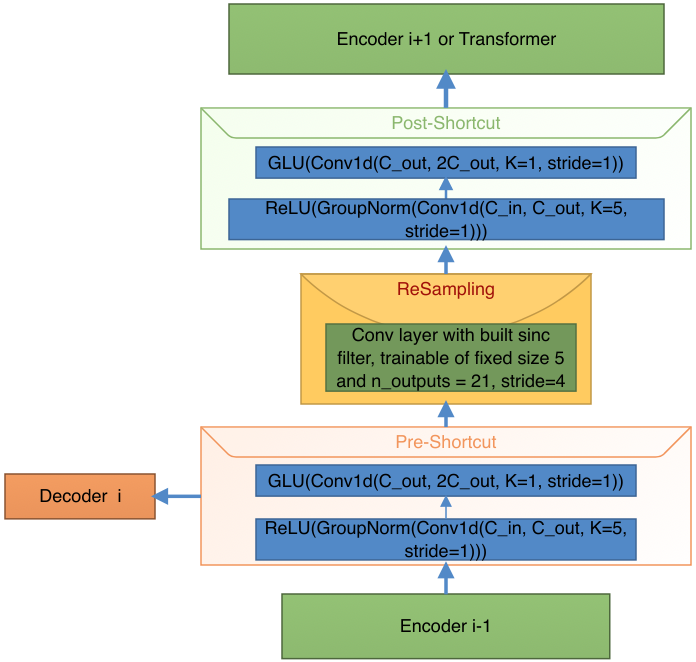
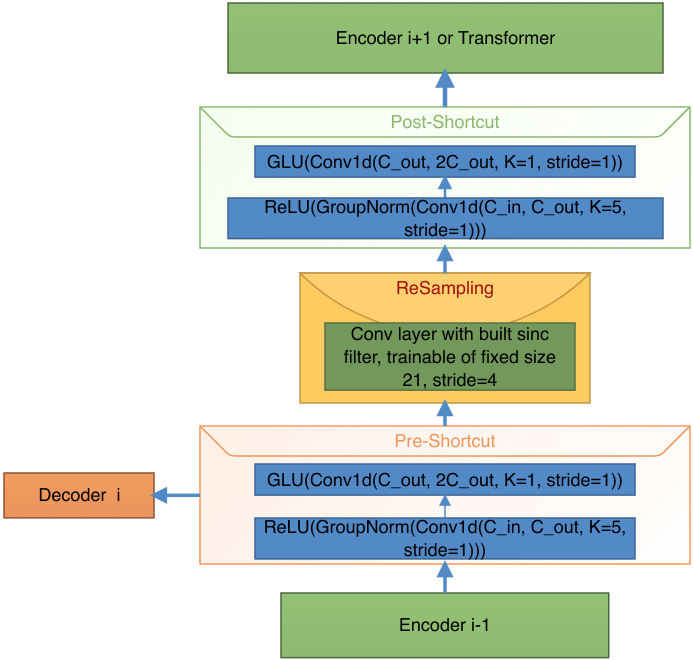
intro, results, discussion and conclusion added
I also modified some of the content in "Related Work". Only the abstract remains and we can read it and correct the remaining mistakes...

diff --git a/report/cvpr.tex b/report/cvpr.tex
@@ -10,9 +10,13 @@
 \usepackage{graphicx}
 \usepackage{amsmath}
 \usepackage{amssymb}
+\usepackage{multirow}
 
 % Include other packages here, before hyperref.
-
+\usepackage{caption}
+\usepackage[tablename=Table]{caption} 
+\captionsetup[table]{skip=5pt}
+\captionsetup{labelfont=bf}
 % If you comment hyperref and then uncomment it, you should delete
 % egpaper.aux before re-running latex.  (Or just hit 'q' on the first latex
 % run, let it finish, and you should be clear).
@@ -38,9 +42,9 @@
 % just like the second author.
 % To save space, use either the email address or home page, not both
 \and
-Teiichi\\
+Teiichi Atsuya\\
 student id\\
-{\tt\small email}
+{\tt\small teiichi.atsuya@outlook.com}
 \and
 Picard Armand\\
 2021400607\\
@@ -58,20 +62,28 @@ Here is our abstract
 %%%%%%%%% BODY TEXT
 \section{Introduction}
 
-Put introduction here
+Music we listen to everyday are usually the product of sophisticated work of multi-track editing, the combination of multiple instruments and vocals. 
+
+The question of wether we can reverse-engineer this process by extracting the individual or particular instrument(s) or vocals, out of the entire music has been studied for a while now. Until recently sound source separation was very difficult for many experts who tried to apply their domain knowledge, such as knowledge of the mixing process, with limited applications and sub-optimal sound quality. 
+
+However, with the recent development of deep neural network technology, the AI system is capable of distinguishing the specific frequency and sound of particular instrument(s), such as Drums and Vocals. 
+
+Encouraged by the results of recent studies in this field, we decided to study the different approaches for such task, then pick a model or architecture and try to improve it and finally annotate the results and compare them with existing models under similar experiment settings.
+
 
 \section{Related work}
 
-In this section we will describe different approche and model architecture to implements instrument sound extraction with DeepLearning.
+In this section we will describe different approaches and model architecture to implement instrument sound extraction using Deep Learning.
 
-\subsection{Different approches}
+\subsection{Different Approaches}
 \subsubsection{Waveform}
 
-Waveform models take the raw wave as input, this give the models all the information available to build it's own representation of the data.
-Since audio have a hight frenquency if we wan't our model to make prediction on a fairly large time period the models will have a huge number of inputs.
-This could lead to a lot of operation for an single pass.
-And also could lead to a huge memory usage to record the gradients that could exceed the memory of our GPU.
-This concideration will influence our research.
+This type of model takes the raw wave as input. This gives the model all the information available to build it's own representation of the data.
+ 
+Indeed, without any preprocessing, such network intends to capture the frequencies and phase of the wave input and model the sources. A pioneer is Wave-U-Net \cite{waveunet} which inspired new state of art model such Demucs \cite{defossez2019music}, DPTNet \cite{dptnet}, MMDenseLSTM \cite{mm_dense_lstm} and many more.
+
+Since a musical sound usually has a high frequency. Hence, for predictions on a fairly long time period, the model will have a huge number of inputs leading to several operations in a single pass and also expensive in terms of memory consumption, for instance to record the gradients which could exceed the memory of the available resources.
+These considerations conditioned our research. 
 
 \subsubsection{Spectrogram}
 
@@ -80,17 +92,18 @@ To get the spectrogram, Short Time Fourier Transform(STFT) is use.
 Then the DeepLearning model is given as input only the magnitude of the spectrogram and it train to produce the magnitude of the different source.
 Then to get the final output we reintegrate the phase of the input signal and apply Inverse Short Time Fourier Transform(ISTFT) to get the output audio.
 
-This approche allow the model to have higher level features as input and reduced lenght depending on the window size and the hop lenght while doing the STFT.
-This higher level features can allow the model to learn faster and being smaller but it also don't give all the information on small local pertubation that can be usefull to produce the best final output.
+This approach allows the model to have higher level features as input and reduced length depending on the window size and the hop length while doing the STFT.
+This higher level features can allow the model to learn faster and being smaller but it also don't give all the information on small local perturbation that can be useful to produce the best final output.
+
 
 
 \subsubsection{Hybrid}
-The Hybrid approche use a network that have 2 input, one for the waveform and one for the spectrogram.
-This allow to have the best of both world but require a lot of computing power. Example of this kind of model include HybridDemucs \cite{hybrid-demucs}
+The Hybrid approach is mostly used nowadays. Such network has 2 types of input, one for the waveform and one for the spectrogram.  
+This allows to have the best of both world by complementing the information extracted from both representations. However it requires a lot of computing power. Example of this kind of model include HybridDemucs \cite{hybrid-demucs} and CatNet \cite{catnet}.
 
-\subsection{Model architecture}
+\subsection{Baseline Architecture}
 
-Most of the models are bases on the UNet architecture that use an encoder that downsample at each step and then a decoder that upsample the bottleneck using the result of each previous encoder as second input.
+Our baseline model architecture is based on Wave-U-Net. This model use an encoder that down-samples at each step and then a decoder that up-samples the bottleneck using the result of each previous encoder as a second input.
 The global architecture of Wave-U-Net\cite{waveunet} is show in Figure~\ref{waveunet-architecture}
 
 \begin{figure}
@@ -118,9 +131,9 @@ for some dataset $D$, the reconstruction error $l$ (here Mean square error), the
 
 The architecture used for the task was developed from a blend ideas between the Wave-U-Net \cite{waveunet} and Demucs \cite{defossez2019music} architectures and the Transformer Encoder from DPTNet\cite{dptnet}.
 Basically we used the Wave-U-Net \cite{waveunet} architecture with some modifications in the downsampling layers (encoders), bottlenecks and upsampling layers (decoders).
-The network has 6 levels. The encoder and decoder are linked with skipped U-net connections as shown in figure \ref{our-architecture}. Both encoder and decoder include a resampling layer as in \cite{waveunet} for a trainable low-pass filter and fix output size (21). 
+The network has 6 levels. The encoder and decoder are linked with skipped U-net connections as shown in figure \ref{our-architecture}. Both encoder and decoder include a resampling layer as in \cite{waveunet} for a trainable low-pass filter of fixed size (21). 
 
-The encoder in fig. \ref{encoder} is composed of 6 stacked layers numbered from 1 to 6. $Layer_i$ consists of a pre-shortcut sublayer and a post-shortcut sublayer. The Pre-shortcut sublayer is composed of a convolution with kernel size 5 and stride 1, followed by a group norm with fixed group size of 8, a ReLU activation function, another convolution with kernel size 1 and stride 1 followed by a GLU layer. The post-shortcut sublayer has exactly the same structure as the pre-shortcut sublayer. Both sublayers are separated by the resampling layer \cite{waveunet} with trainable sinc filter of size 5 and with stride 4 and fixed output channel size 21.
+The encoder in fig. \ref{encoder} is composed of 6 stacked layers numbered from 1 to 6. $Layer_i$ consists of a pre-shortcut sublayer and a post-shortcut sublayer. The Pre-shortcut sublayer is composed of a convolution with kernel size 5 and stride 1, followed by a group norm with fixed group size of 8, a ReLU activation function, another convolution with kernel size 1 and stride 1 followed by a GLU layer. The post-shortcut sublayer has exactly the same structure as the pre-shortcut sublayer. Both sublayers are separated by the resampling layer \cite{waveunet} with trainable sinc filter of size 21 and with stride 4.
 
 \begin{figure}
    \includegraphics[scale=0.3]{encoder.png}
@@ -149,20 +162,91 @@ The last decoder or final layer is a convolution of kernel size 5 and stride 1, 
 \section{Experiments and Results}
  The implemented model was evaluated on music separation with bass, drums, vocals and "other" instruments as categories defined by the SiSec Separation campaign \cite{SiSec}.
 \subsection{Datasets}
-The dataset used was MusDB18-HQ \cite{MUSDB18HQ} as well as MusDB18 7s \cite{musdb18}. Both dataset contain 150 tracks split into 2 subsets. From the 100 songs reserved for training, 25 were dedicated for validation, also used for early stop in training. The remaining 50 were used as test data. The model is fully trained on MusDB18-hq which is stereophonic and encoded at 44.1kHz. The model is then evaluated on both datasets.
+The datasets used was MusDB18-HQ \cite{MUSDB18HQ} as well as MusDB18 7s \cite{musdb18}. Both datasets contain 150 tracks split into 2 subsets. From the 100 songs reserved for training, 25 were dedicated for validation, also used for early stop in training. The remaining 50 were used as test data. The model is fully trained on MusDB18-hq which is stereophonic and encoded at 44.1kHz. The model is then evaluated on both datasets.
 Data augmentation is also performed on the training data by multiplying the sources of the mixture with a uniformly chosen factor between 0.7 and 1.0 and then summing the resulting sources back to obtain a new mixture.\cite{waveunet}  
 \subsection{Training Procedure}
 During training, one epoch was defined as a pass over 3 seconds extracts on the data with a batch size of 8. The inputs were padded accordingly to ensure input context and alleviate bottlenecks. Furthermore, we use the mean square loss (MSE) over all source output samples in a batch. The optimizer was ADAM with a cyclic learning [$1*10^{-3}$, $5*10^{-5}$]. 
 
 The model was trained with early stopping after 20 epochs with no improvement on the validation dataset by the MSE loss. Afterwards, the model is fined with a cyclic learning [$5*10^{-4}$, $5*10^{-6}$], until 50~100 epochs with no improvements validation loss. The best model on validation loss was then selected and used on the test set. 
 
-Experiments were also performed on the number of levels (depth) of the network, the output size, the kernel sizes as well as structures such as LSTMs and fully connected layers to arrive at a better model.   
-\subsection{Model settings}
-
+Experiments were also performed on the number of levels (depth) of the network, the output size, the kernel or filter sizes as well as structures such as LSTMs and fully connected layers as bottleneck layers to arrive at a better model with transformers.   
+\subsection{Model Settings}
+The model uses at least 137897 inputs and 132441 outputs based on the valid convolutions. Besides all the tracks are sampled at 44.1kHz. The model has 12 layers and the transformer encoder as bottleneck. The number of filter for the resampling both in encoder and decoder were fixed to 21.
 \subsection{Evaluation Metrics}
+The metric commonly used to evaluate sound source separation performance is the Signal-to-Distortion Ratio (SDR) \cite{sdr}. Indeed, a track is partitioned into non-overlapping audio segments multiple seconds in length, and segment-wise metrics are then averaged over each audio track or the whole dataset to evaluate the model. We use the python package \emph{museval}\footnote{\url{https://github.com/sigsep/sigsep-mus-eval}} which provides a reference implementation for the SiSec Mus 2018 campaign \cite{SiSec}.
 
+If we reuse the notations from \cite{sdr}, let's take a source $j$ $\epsilon$ $1, 2, 3, 4$ and we introduce $P_{s_{j}}$ the orthogonal projection on $s_{j}$ and $P_{s}$ the projection on the Span($s_{1}$, \dots, $s_{4}$). By taking the estimate of source $s_{j}$, $s_{target}:=P_{s_j}(s_j)$, $e_{interference}:=P_s(s_j)-P_{s_j}(s_j)$ and $e_{artifact}:=s_j-P_s(s_j)$,
+the SDR is defined as
+\begin{equation}
+   SDR = 10\log_{10} \frac{||s_{target}||^2}{||e_{interference}+e_{artifact}||^2}
+\end{equation}
+One the drawbacks of such formula is the undefined results ($\log(0)$) when the source is silent or nearly silent as pointed out in \cite{waveunet}. Indeed the SDR is very low when the output is quiet. Such outliers encountered affect the overall evaluation because of the average over all segments. Hence as done in \cite{SiSec}, we report the median over all tracks of the median of the metric over each track. This ensure robustness and describes the minimum performance achieved $50\%$ of the time.  
 \subsection{Results}
+The results shown here (see table \ref{dataset-sdr}) are of the best model obtained so far at the end of the experiments. Moreover, we compare our results to state of art performances on the same task under the same datasets.
+Table \ref{wave-unet-vs-our-model} indicates an overall improvement of our model which exceeds the performance of Wave-U-Net on the MusDB18-HQ. The main difference between the two models is the transformer encoder that replaced the convolutional bottleneck in Wave-U-Net. Such implementation added some kind of memory to the network, which proves the importance of relation of subsequent frequencies or musical notes in a melody in the separation.
+
+Table \ref{demucs-vs-our-model} on the other shows that our model still has a long way to go. In fact Demucs\cite{defossez2019music} consists in a direct synthesis. The main benefit of synthesis is that we can use a relatively large stride in the decoder, thus speeding up the computations and allowing for a larger number of channels.This explains the effectiveness of the Demucs network, while our model as well as Wave-U-Net \cite{waveunet}, generates its output by iteratively upsampling, adding back the high frequency part of the signal from the matching encoder output (or from the input for the last decoder layer) and filtering.
+
+Table \ref{efficiency-parameters} compares our model to Wave-U-Net and Demucs in terms of parameters and computations. In fact, the developed model has additional parameters because of the transformer encoder which is not detrimental to the performance. Compared to Demucs \cite{defossez2019music} which has 5 times more parameters, we believe that with more experiments on the use of transformer in the model architecture, meaning adding memory in U-Net based models, as well as extra-data as in \cite{hybrid-demucs}  interesting outcomes are expected. 
+
+
+
+\begin{table}[]
+   \begin{tabular}{|l|ll|ll|}
+   \hline
+                                                                 & \multicolumn{2}{c|}{Training Set}                    & \multicolumn{2}{c|}{Test Set}                        \\ \hline
+                                                                 & \multicolumn{1}{l|}{\begin{tabular}[c]{@{}l@{}}MSE \\ loss\end{tabular}}        & \begin{tabular}[c]{@{}l@{}}Overall\\ SDR \end{tabular}  & \multicolumn{1}{l|}{\begin{tabular}[c]{@{}l@{}}MSE \\ loss\end{tabular}}        & \begin{tabular}[c]{@{}l@{}}Overall\\ SDR \end{tabular}   \\ \hline
+   \begin{tabular}[c]{@{}l@{}}MusDB18 \\ 7s dataset\end{tabular} & \multicolumn{1}{l|}{0.0009}          & 6.31          & \multicolumn{1}{l|}{0.0019}          & \textbf{3.41} \\ \hline
+   MusDB18-hq                                                    & \multicolumn{1}{l|}{\textbf{0.0005}} & \textbf{6.48} & \multicolumn{1}{l|}{\textbf{0.0016}} & 3.30          \\ \hline
+   \end{tabular}
+
+   \caption{Performance of our model on training set and test set in terms of Signal-to-distortion ratio. The higher SDR for MusDB18-hq is explained by the huge number of 
+   samples compared to MusDB18 7s which has only 7s extracts from the original songs.}
+   \label{dataset-sdr}
+\end{table}
+
+
+\begin{table}[]
+   \begin{tabular}{|l|lllll|}
+   \hline
+   Architectures & \multicolumn{5}{c|}{SDR in dB on Test Set}                                                                                                                        \\ \hline
+                 & \multicolumn{1}{l|}{All}           & \multicolumn{1}{l|}{bass}          & \multicolumn{1}{l|}{drums}         & \multicolumn{1}{l|}{other}         & vocals        \\ \hline
+   Wave-U-Net    & \multicolumn{1}{l|}{3.17}          & \multicolumn{1}{l|}{\textbf{3.17}} & \multicolumn{1}{l|}{4.16}          & \multicolumn{1}{l|}{2.24}          & 3.05          \\ \hline
+   Our Model     & \multicolumn{1}{l|}{\textbf{3.30}} & \multicolumn{1}{l|}{2.91}          & \multicolumn{1}{l|}{\textbf{4.26}} & \multicolumn{1}{l|}{\textbf{2.43}} & \textbf{3.70} \\ \hline
+   \end{tabular}
+   
+   \caption{Comparison of Wave-U-Net and Our model on waveform data (MusDB18)}
+   \label{wave-unet-vs-our-model}
+\end{table}
+
+\begin{table}[]
+   \begin{tabular}{|l|lllll|}
+   \hline
+   Architectures & \multicolumn{5}{c|}{SDR in dB on Test Set}                                                                                                                        \\ \hline
+                 & \multicolumn{1}{l|}{All}           & \multicolumn{1}{l|}{bass}          & \multicolumn{1}{l|}{drums}         & \multicolumn{1}{l|}{other}         & vocals        \\ \hline
+   Demucs        & \multicolumn{1}{l|}{\textbf{4.81}} & \multicolumn{1}{l|}{\textbf{5.07}} & \multicolumn{1}{l|}{\textbf{5.38}} & \multicolumn{1}{l|}{\textbf{3.01}} & \textbf{5.44} \\ \hline
+   Our model     & \multicolumn{1}{l|}{3.30}          & \multicolumn{1}{l|}{2.91}          & \multicolumn{1}{l|}{4.26}          & \multicolumn{1}{l|}{2.43}          & 3.70          \\ \hline
+   \end{tabular}
+   \caption{Comparison of Demucs and Our model on waveform data (MusDB18) with no-extra data }
+   \label{demucs-vs-our-model}
+\end{table}
+
+\begin{table}[]
+   \begin{tabular}{|l|l|l|l|l|}
+   \hline
+   \textbf{Model}      & \textbf{Structure}                                                       & \textbf{Dataset} & \textbf{\begin{tabular}[c]{@{}l@{}} \# $10^6$ of \\ params\end{tabular}} & \textbf{\begin{tabular}[c]{@{}l@{}}GMACs\end{tabular}} \\ \hline
+   \textbf{Demucs}     & \begin{tabular}[c]{@{}l@{}}Encoder-\\ LSTM-\\ Decoder\end{tabular}          & \begin{tabular}[c]{@{}l@{}} 150 \\ tracks\end{tabular}       & 415.09                                                                                 & 5.17                                                                            \\ \hline
+   \textbf{Wave-U-Net} & \begin{tabular}[c]{@{}l@{}}Encoder-\\ Conv-\\ Decoder\end{tabular}          & \begin{tabular}[c]{@{}l@{}} 150 \\ tracks\end{tabular}       & \textbf{70,15}                                                                         & 98.64                                                                           \\ \hline
+   \textbf{Our model}  & \begin{tabular}[c]{@{}l@{}}Encoder-\\ Transformer- \\ -Decoder\end{tabular} & \begin{tabular}[c]{@{}l@{}} 150 \\ tracks\end{tabular}      & 89.27                                                                                  & 40.54                                                                           \\ \hline
+   \end{tabular}
+   \caption{Our model has more parameters compared to Wave-U-Net mainly because of the transformer encoder. However, it more more efficient since the sources are modeled jointly and separated only in the last layer.  }
+   \label{efficiency-parameters}
+   \end{table}
+
 \section*{Discussion and Conclusion}
+In this paper, we developed a modified version of Wave-U-Net for an end-to-end audio source separation without pre- or post-processing. The idea was not to outperform existing state of the art models but to experiment with the deep learning architectures learned in class to build a lighter model (fewer parameters) which would still capable of reaching reasonable results. The experimental results showed that the model outperformed the Wave-U-Net \cite{waveunet} under comparable settings with our limited data and computing resources. The novelty resides in the inclusion of transformer in the architecture which we believe, is mainly responsible of the efficiency of the model.
+
+However, Demucs \cite{defossez2019music} as well as its hybrid version \cite{hybrid-demucs} exceeds the performance of our model. For future studies, in addition to extra data, new loss function besides MSE to appropriately perceive the loss of quality as indicated in \cite{waveunet}, as well as the extension of pur model to spectral analysis as in \cite{hybrid-demucs}, transformers as in \cite{dptnet} seem to bring some value and its worth investigating.   
 {\small
 \bibliographystyle{ieee_fullname}
 \bibliography{egbib}
